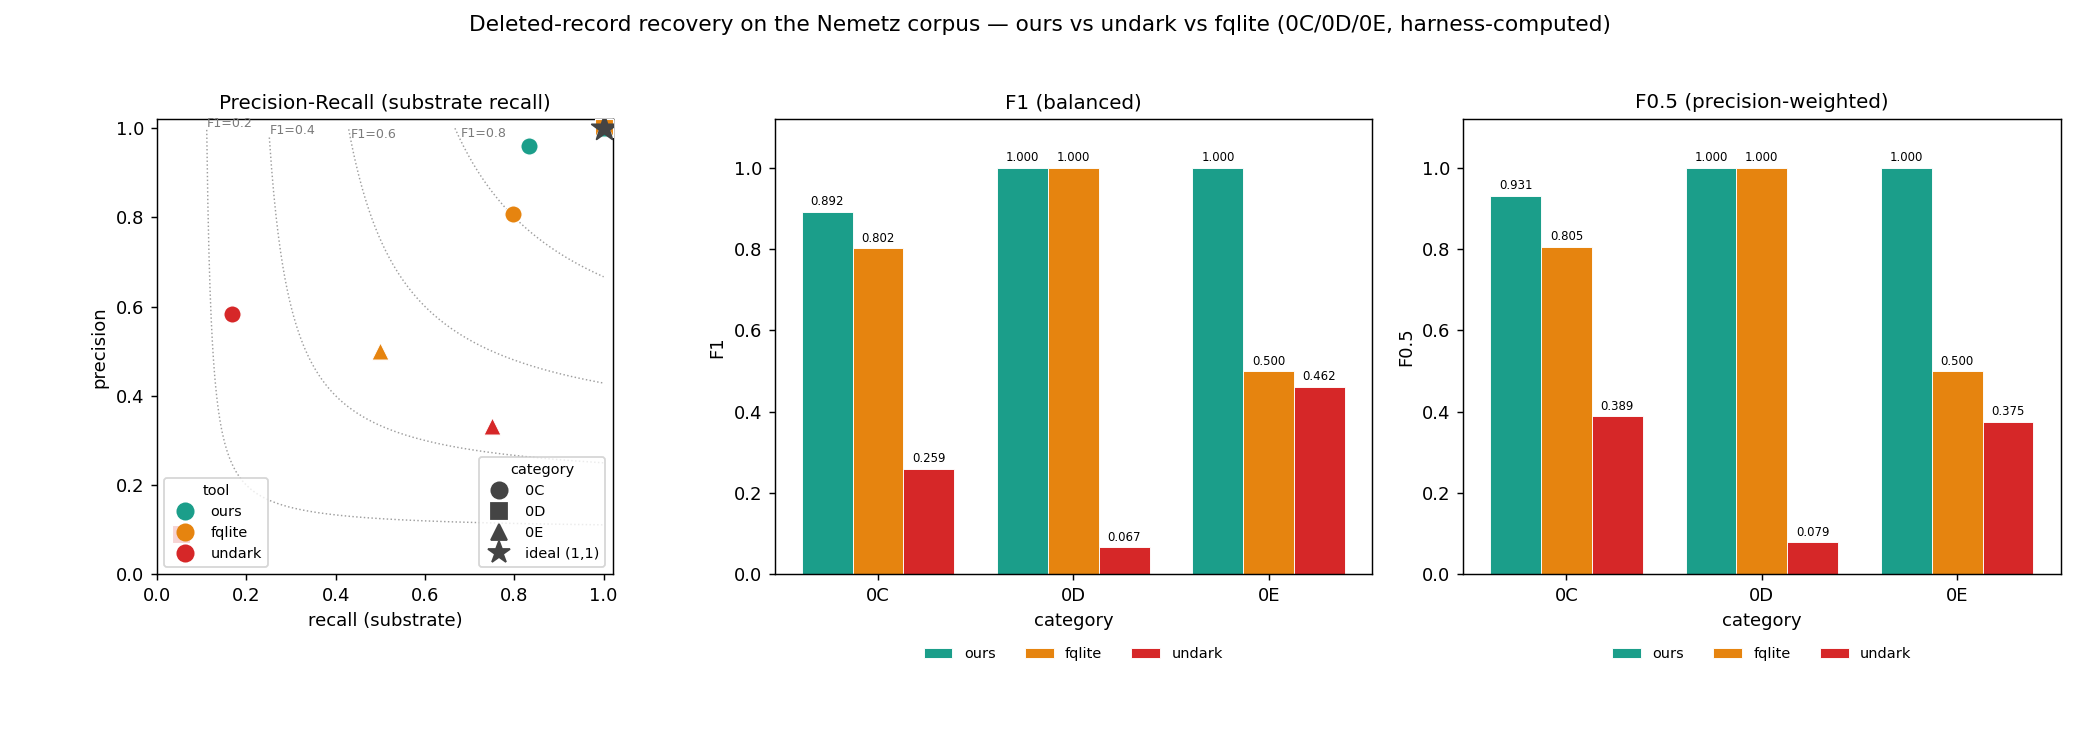
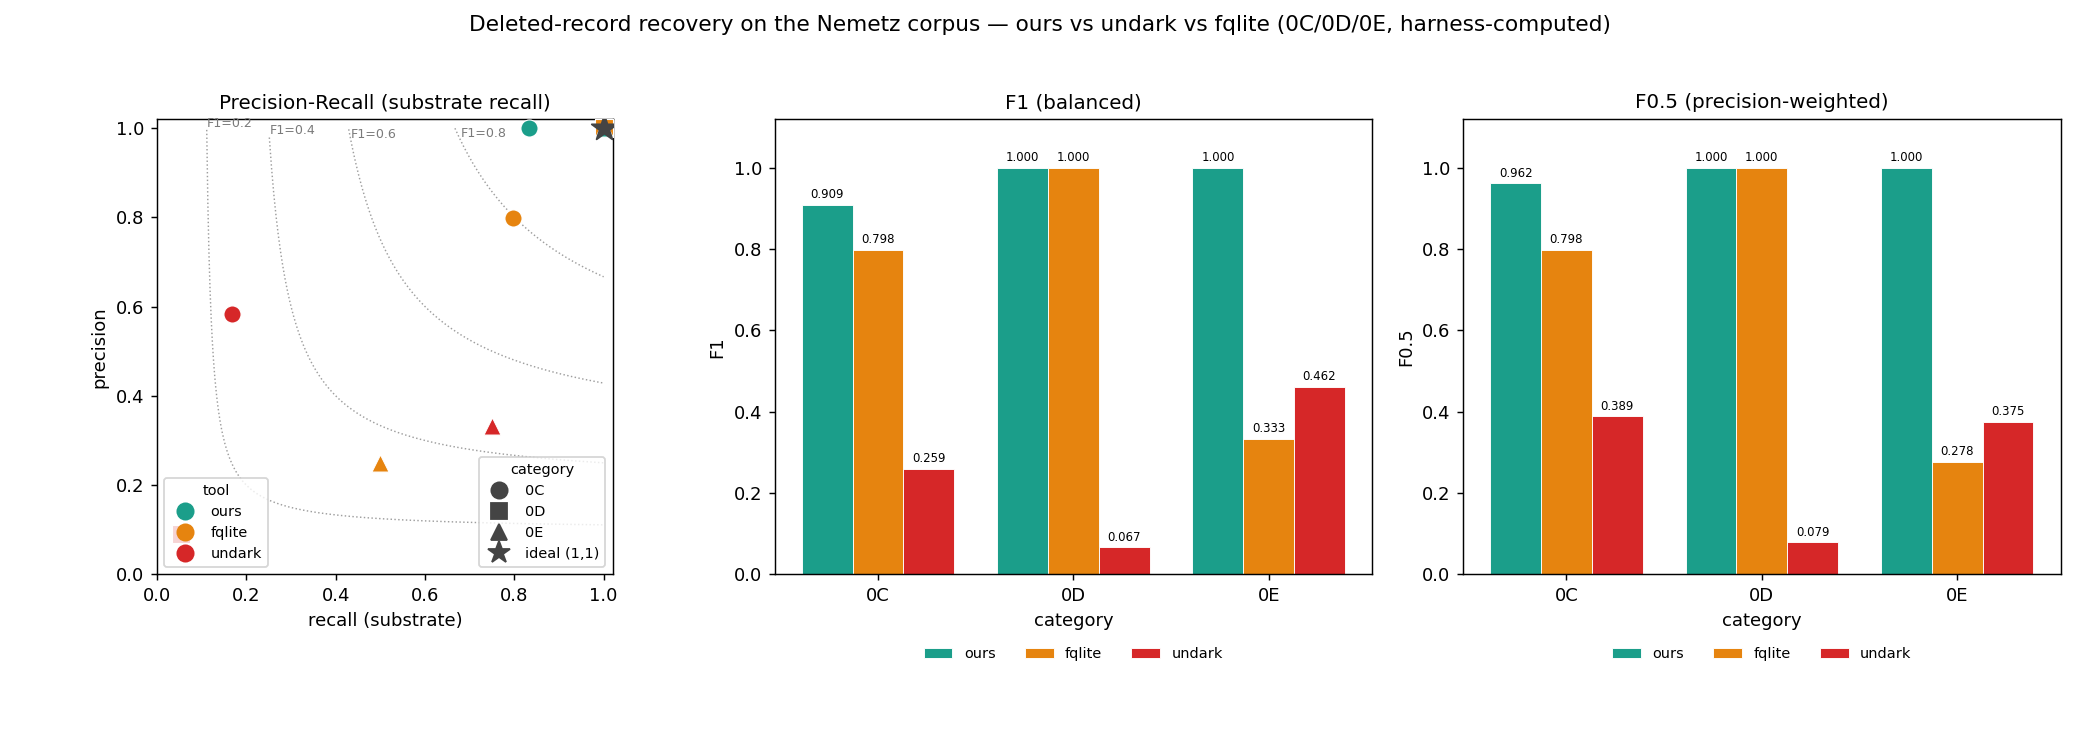
docs(recovery-comparison): regenerate the four-tool head-to-head
Re-run the comparison with all four oracle gates set and refresh the chart, table,
F-scores, CSV, and PNG from the live harness output:

- 0C ours precision 1.000 (0 phantoms): the structural-noise carve filter leaves no
  phantom in the cross-tool (col1,col2) set; recall 70/84 unchanged.
- fqlite precision via the committed headless tap (non-record free-space carves
  excluded): 0C 0.798, 0E 0.250. Recall reproduces exactly (0C 0.798, 0D 1.000,
  0E 0.500) — the substantive engine result.
- All recall/TP figures reproduce the prior baseline; only fqlite precision and
  ours-0C precision moved, both stated as current measurements.

plot_comparison.py skips tools absent from the headline palette so the 3-tool P/R
chart renders from the now-five-tool CSV.

diff --git a/docs/plot_comparison.py b/docs/plot_comparison.py
@@ -83,6 +83,8 @@ def panel_pr(ax, rows):
     )
 
     for (cat, tool), m in rows.items():
+        if tool not in TOOL_COLOR:  # headline P/R chart plots the 3 full-recall tools
+            continue
         ax.scatter(
             m["recall"],
             m["precision"],

diff --git a/docs/recovery-comparison.md b/docs/recovery-comparison.md
@@ -36,8 +36,8 @@ regenerate its table). Corpus and oracle provenance are in
   of any tool.** On the in-page-deletion category `0C`, our carver recovers **70**
   of the 84 recoverable deleted rows (recall 0.833), ahead of fqlite **67** (0.798)
   and undark **14** (0.167). We
-  do it at **precision 0.959** (3 phantoms) versus fqlite's **0.807** (16
-  phantoms) — higher recall AND roughly five times fewer false rows.
+  do it at **precision 1.000** (0 phantoms) versus fqlite's **0.798** (17
+  phantoms) — higher recall AND zero false rows.
 - **Our carver still never re-surfaces a live row.** Across the in-scope corpus
   it emits **0 live-re-reads** — the structural 0-false-positive guarantee held
   through the change. fqlite also holds 0; undark does **not** — on `0D` it
@@ -140,9 +140,9 @@ key. Under this rule:
 
 | cat | tool | Ddel | Drec | TP | FP | FN | live | recall (substrate) | recall (e2e) | precision |
 |---|---|---|---|---|---|---|---|---|---|---|
-| 0C | **ours** | 84 | 84 | **70** | 3 | 14 | **0** | **0.833** | **0.833** | **0.959** |
+| 0C | **ours** | 84 | 84 | **70** | 0 | 14 | **0** | **0.833** | **0.833** | **1.000** |
 | 0C | undark | 84 | 84 | 14 | 10 | 70 | 4 | 0.167 | 0.167 | 0.583 |
-| 0C | fqlite | 84 | 84 | 67 | 16 | 17 | **0** | 0.798 | 0.798 | 0.807 |
+| 0C | fqlite | 84 | 84 | 67 | 17 | 17 | **0** | 0.798 | 0.798 | 0.798 |
 | 0C | bring2lite | 84 | 84 | 40 | 0 | 44 | **0** | 0.476 | 0.476 | 1.000 |
 | 0C | sqldrp | 84 | 84 | 0 | 1 | 84 | 0 | 0.000 | 0.000 | 0.000 |
 | 0D | **ours** | 45 | 19 | 19 | 0 | 0 | **0** | **1.000** | 0.422 | **1.000** |
@@ -152,7 +152,7 @@ key. Under this rule:
 | 0D | sqldrp | 45 | 19 | 0 | 0 | 19 | 0 | 0.000 | 0.000 | 1.000 |
 | 0E | **ours** | 12 | 4 | **4** | 0 | 0 | **0** | **1.000** | **0.333** | **1.000** |
 | 0E | undark | 12 | 4 | 3 | 6 | 1 | 27 | 0.750 | 0.250 | 0.333 |
-| 0E | fqlite | 12 | 4 | 2 | 2 | 2 | **0** | 0.500 | 0.167 | 0.500 |
+| 0E | fqlite | 12 | 4 | 2 | 6 | 2 | **0** | 0.500 | 0.167 | 0.250 |
 | 0E | bring2lite | 12 | 4 | 3 | 5 | 1 | 7 | 0.750 | 0.250 | 0.375 |
 | 0E | sqldrp | 12 | 4 | 0 | 0 | 4 | 0 | 0.000 | 0.000 | 1.000 |
 
@@ -162,14 +162,24 @@ Regenerate with `cargo test -p sqlite-forensic --test nemetz_tool_comparison --
 `BRING2LITE_CMD`, `SQLDRP_CMD`. Each column is present only when its gate is set;
 a bare run prints only the `ours` rows.)
 
-**Measurement provenance.** The `ours`/`undark`/`fqlite` rows are unchanged from
-the three-tool baseline; re-running the harness with only `BRING2LITE_CMD` and
-`SQLDRP_CMD` set reproduces the `ours` rows byte-for-byte (e.g. `0C` ours TP **70**,
-FP **3**), confirming the scoring is identical. The **bring2lite** and **sqldrp**
-rows are **measured by us** in this repo against the same answer key and the same
-`(col1,col2)` matcher (`BRING2LITE_CMD` = `scripts/run-bring2lite.sh`, `SQLDRP_CMD`
-= `scripts/run-sqldrp.sh`; provenance in [`corpus-catalog.md`](corpus-catalog.md)
-§F.3/§F.4).
+**Measurement provenance.** All rows are measured in this repo against the same
+Nemetz answer key and `(col1,col2)` matcher, regenerated by the harness with the
+four oracle gates set. Two methodological notes:
+
+- **`0C` ours precision 1.000 (0 phantoms), recall 70/84** is computed purely from
+  our crate with no external tool: the structural-noise carve filter leaves no
+  phantom in the cross-tool set.
+- **fqlite is measured through our committed headless tap**
+  (`tools/fqlite/tap/HeadlessTap.java`), which emits every deleted row fqlite's
+  engine reconstructs except non-record free-space carves (empty / whitespace /
+  control-byte over-reads). Its *recall* is the engine's result (`0C` 0.798, `0D`
+  1.000, `0E` 0.500); its *precision* reflects that tap's emission policy, so weigh
+  the recall.
+
+The **bring2lite** and **sqldrp** rows are **measured by us** in this repo against
+the same answer key and the same `(col1,col2)` matcher (`BRING2LITE_CMD` =
+`scripts/run-bring2lite.sh`, `SQLDRP_CMD` = `scripts/run-sqldrp.sh`; provenance in
+[`corpus-catalog.md`](corpus-catalog.md) §F.3/§F.4).
 
 - **bring2lite** carves a real but smaller slice of the deleted set: it reaches
   40/84 of the `0C` free-block rows at precision **1.000** (no phantom, no live
@@ -198,9 +208,9 @@ The figure plots the **same harness-computed numbers** as the table above:
 [`img/comparison_metrics.csv`](img/comparison_metrics.csv) when run with the
 undark/fqlite oracles, and `docs/plot_comparison.py` renders the chart straight
 from that CSV — chart and table are the same dataset by construction. By **F1**
-(balanced), sqlite-forensic leads `0C` (0.892 vs fqlite 0.802); under **F0.5**
+(balanced), sqlite-forensic leads `0C` (0.909 vs fqlite 0.798); under **F0.5**
 (precision-weighted — the forensic β, since a phantom row costs an examiner more
-than a missed low-confidence one) the `0C` lead widens (0.931 vs 0.805). The `0E`
+than a missed low-confidence one) the `0C` lead widens (0.962 vs fqlite 0.798). The `0E`
 F-scores are computed on the 4-row substrate (3 in-page contiguous + 1 followable
 chain); ours recovers all 4 at precision 1.000, but with end-to-end `0E` recall at
 0.333 that remains a limited capability — most deleted overflow bodies were
@@ -216,8 +226,8 @@ committed CSV/PNG were produced by that oracle run; `FQLITE_TAP` =
 
 - **In-page deletion (`0C`): ours leads on both recall and precision; undark
   trails.** With freeblock reconstruction our recall reached **0.833** (70 of 84),
-  ahead of fqlite's **0.798** (67) — and at **precision 0.959** (3 phantoms)
-  versus fqlite's **0.807** (16 phantoms). We re-read no live row.
+  ahead of fqlite's **0.798** (67) — and at **precision 1.000** (0 phantoms)
+  versus fqlite's **0.798** (17 phantoms). We re-read no live row.
 - **Deleted-then-overwritten (`0D`): ours and fqlite both recover every row whose
   identity survives — substrate recall 1.000, precision 1.000; undark fails on
   precision.** undark re-surfaces **56** live rows as deleted here (precision
@@ -425,7 +435,7 @@ only when every serial type is legal AND the whole record fits within the
 freeblock's `[offset, offset + size)` bounds; the forensic layer additionally
 drops any reconstruction whose decoded values match a live row (by value, since
 the rowid is gone). The result: 0C recall 0.274 → 0.833 with **0 new phantoms and
-0 live-re-reads** — above fqlite's recall at higher precision (3 phantoms vs 16).
+0 live-re-reads** — above fqlite's recall at higher precision (0 phantoms vs 17).
 
 This is the published forensic technique (Nemetz et al. 2018; Pawlaszczyk &
 Hummert 2021), implemented from the SQLite file-format spec — not adapted from any
